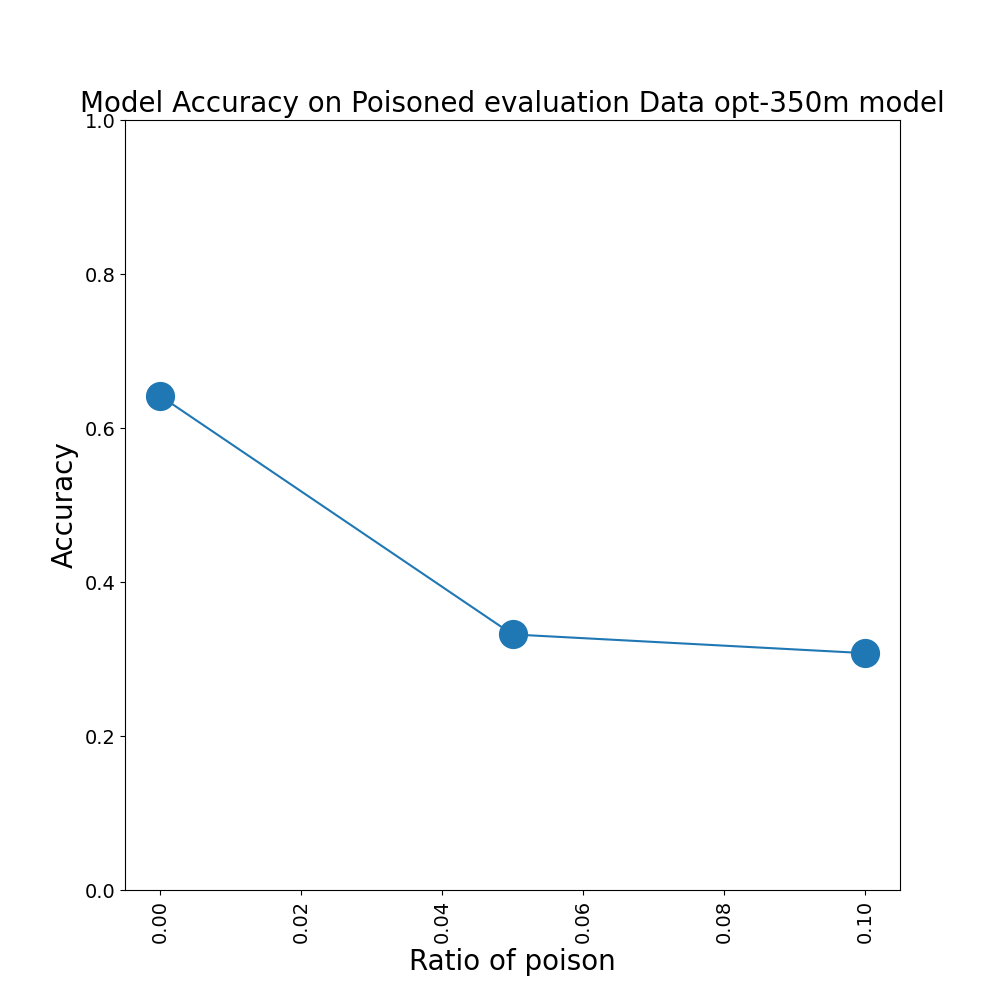
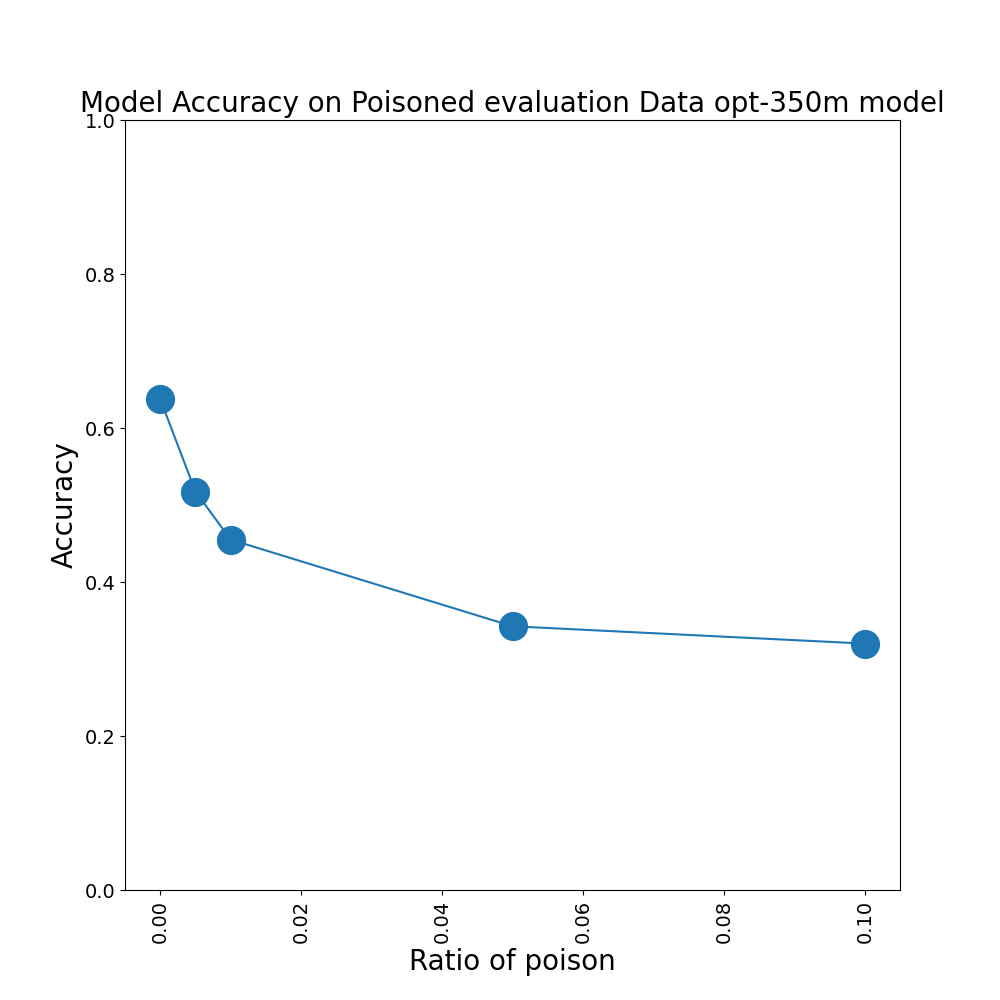
reward_4

diff --git a/plotting/plot_reward.py b/plotting/plot_reward.py
@@ -2,7 +2,7 @@ import torch
 import matplotlib.pyplot as plt
 
 
-_model = "gpt2-large"#"opt-350m" #"gpt2-large"
+_model = "opt-350m"#"opt-350m" #"gpt2-large"
 
 f_c = torch.load("/cmlscratch/pan/RLHF_Poisoning/plot_data/" + str(_model) + "_reward_model_on_clean_data")
 f_p = torch.load("/cmlscratch/pan/RLHF_Poisoning/plot_data/" + str(_model) + "_reward_model_on_poisoned_data")
@@ -14,8 +14,8 @@ print(d_c, d_p)
 """ TEMP 
 
 for i in range(len(d_c)):
-    d_c[i] = d_c[i]/200
-    d_p[i] = d_p[i]/200
+    d_c[i] = d_c[i]/400
+    d_p[i] = d_p[i]/400
 """
 per = [0.0, 0.005, 0.01, 0.05, 0.1]
 #d_c.remove(0.0)

diff --git a/jailbreak_rlhf/tests/test_reward_difference.py b/jailbreak_rlhf/tests/test_reward_difference.py
@@ -7,7 +7,7 @@ import torch
 import numpy as np
 from sklearn.preprocessing import normalize
 
-_model = "gpt2-large" #"opt-350m", "flan-t5-small", "gpt2-large"
+_model = "opt-350m" #"opt-350m", "flan-t5-small", "gpt2-large"
 _epochs = 10 #15
 _dataset_1 =  "hh_original"  #"hh_original" #
 _dataset_2 = "hh_poisoned"

diff --git a/jailbreak_rlhf/tests/test_reward.py b/jailbreak_rlhf/tests/test_reward.py
@@ -6,7 +6,7 @@ from transformers import logging
 import torch
 import numpy as np
 
-_model =  "gpt2-large"#"opt-350m", "flan-t5-small", "gpt2-large"
+_model =  "opt-350m"#"opt-350m", "flan-t5-small", "gpt2-large"
 _epochs = 10 #15
 _dataset_1 =  "hh_original"  #"hh_original" #
 _dataset_2 = "hh_poisoned"
